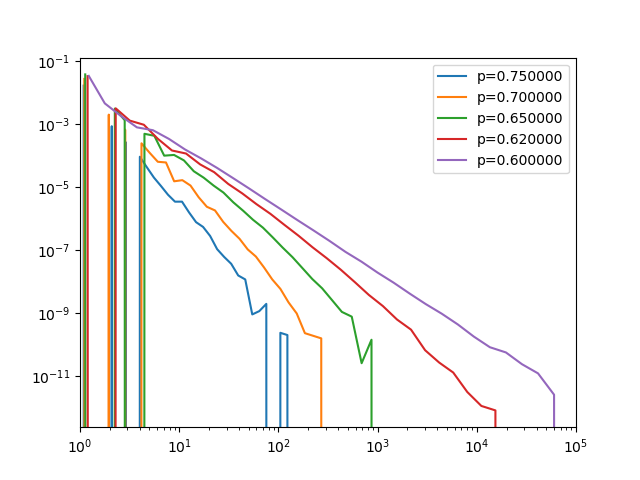
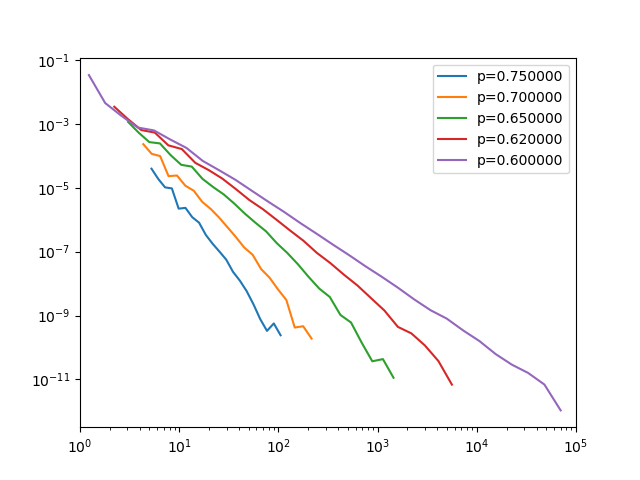
Work work

diff --git a/Project3/l-n/scaling.py b/Project3/l-n/scaling.py
@@ -2,20 +2,20 @@ from pylab import *
 from scipy.ndimage import measurements
 from tqdm import tqdm
 
-no_samples = 100
+no_samples = 10
 no_probabilities = 100
-
 sizes = np.array([25, 50, 100, 200, 400, 800])
 occupied_probability = linspace(0.4,1.0,no_probabilities)
 percolation_probability = np.zeros(no_probabilities)
 prob_percolation_low = np.zeros(len(sizes))
 prob_percolation_high = np.zeros(len(sizes))
-for i, L in enumerate(sizes):
-    print("L=%d" % L)
-    for j in tqdm(range(no_samples)):
+
+for k, L in enumerate(sizes):
+    print("L = %d" % L)
+    for i in tqdm(range(no_samples)):
         r = rand(L,L)
-        for k in range(no_probabilities):
-            z = r < occupied_probability[k]
+        for j in range(no_probabilities):
+            z = r < occupied_probability[j]
             lw, num = measurements.label(z)
             area = measurements.sum(z, lw, index=arange(lw.max() + 1))
             areaImg = area[lw]
@@ -26,14 +26,14 @@ for i, L in enumerate(sizes):
             maxsize = max(sliceX.stop - sliceX.start, sliceY.stop - sliceY.start)
     
             if(maxsize == L):
-                percolation_probability[k] += 1
+                percolation_probability[j] += 1
     
-    percolation_probability /= no_probabilities
-    prob_percolation_low[i] = occupied_probability[argmax(percolation_probability > 0.3)]
-    prob_percolation_high[i] = occupied_probability[argmax(percolation_probability > 0.8)]
+    percolation_probability /= no_samples
+    prob_percolation_low[k] = occupied_probability[argmin(percolation_probability > 0.3)]
+    prob_percolation_high[k] = occupied_probability[argmin(percolation_probability > 0.8)]
 
-    plot(occupied_probability, percolation_probability, label="L=%d" % L)
-legend()
+    plot(occupied_probability, percolation_probability)
+
 show()
 
 plot(sizes, prob_percolation_low)

diff --git a/Project3/g-h/cnd_power2.py b/Project3/g-h/cnd_power2.py
@@ -1,0 +1,43 @@
+from pylab import *
+from scipy.ndimage import measurements
+from tqdm import tqdm
+
+no_samples = 1000
+p = 0.59275
+ks = np.array([i for i in range(4,10)])
+
+for k in ks:
+
+    print("L = 2**%d" % k)
+    L = 2**k
+    sizes = []
+    for i in tqdm(range(no_samples)):
+        r = rand(L,L)
+        z = r < p
+        lw, num = measurements.label(z)
+        area = measurements.sum(z, lw, index=arange(lw.max() + 1))
+        areaImg = area[lw]
+        sliced = measurements.find_objects(areaImg == areaImg.max())
+
+        sliceX = sliced[0][1]
+        sliceY = sliced[0][0]
+        maxsize = max(sliceX.stop - sliceX.start, sliceY.stop - sliceY.start)
+        if(maxsize == L):
+            area = area[where(area < area.max())]
+
+        sizes.append(area)
+    sizes = np.concatenate(sizes)
+
+    bins = np.logspace(0, np.log2(sizes.max()), 100)
+    hist, bin_edges = np.histogram(sizes, bins=bins)
+    
+    bin_centers = (bins[1:] + bins[:-1])*0.5
+    cluster_number_density = hist/(no_samples*L*L*np.diff(bins))
+    
+    plt.plot(bin_centers, cluster_number_density, label="L=2**%d" % k)
+    plt.xscale('log')
+    plt.yscale('log')
+    plt.xlim([10**0, 10**5])
+plt.legend()
+plt.savefig("cnd_power2.png")
+plt.clf()

diff --git a/Project3/f/cluster_number_density.py b/Project3/f/cluster_number_density.py
@@ -7,7 +7,7 @@ L = 500
 p_below = np.array([0.45, 0.50, 0.54, 0.57, 0.58])
 p_above = np.array([0.75, 0.70, 0.65, 0.62, 0.60])
 
-print("p from below: \n")
+print("\n p from below:")
 for p in p_below:
 
     print("p = %f" % p)
@@ -43,7 +43,7 @@ plt.legend()
 plt.savefig("cnd_below.png")
 plt.clf()
 
-print("p from above: \n")
+print("\n p from above:")
 for p in p_above:
 
     print("p = %f" % p)
